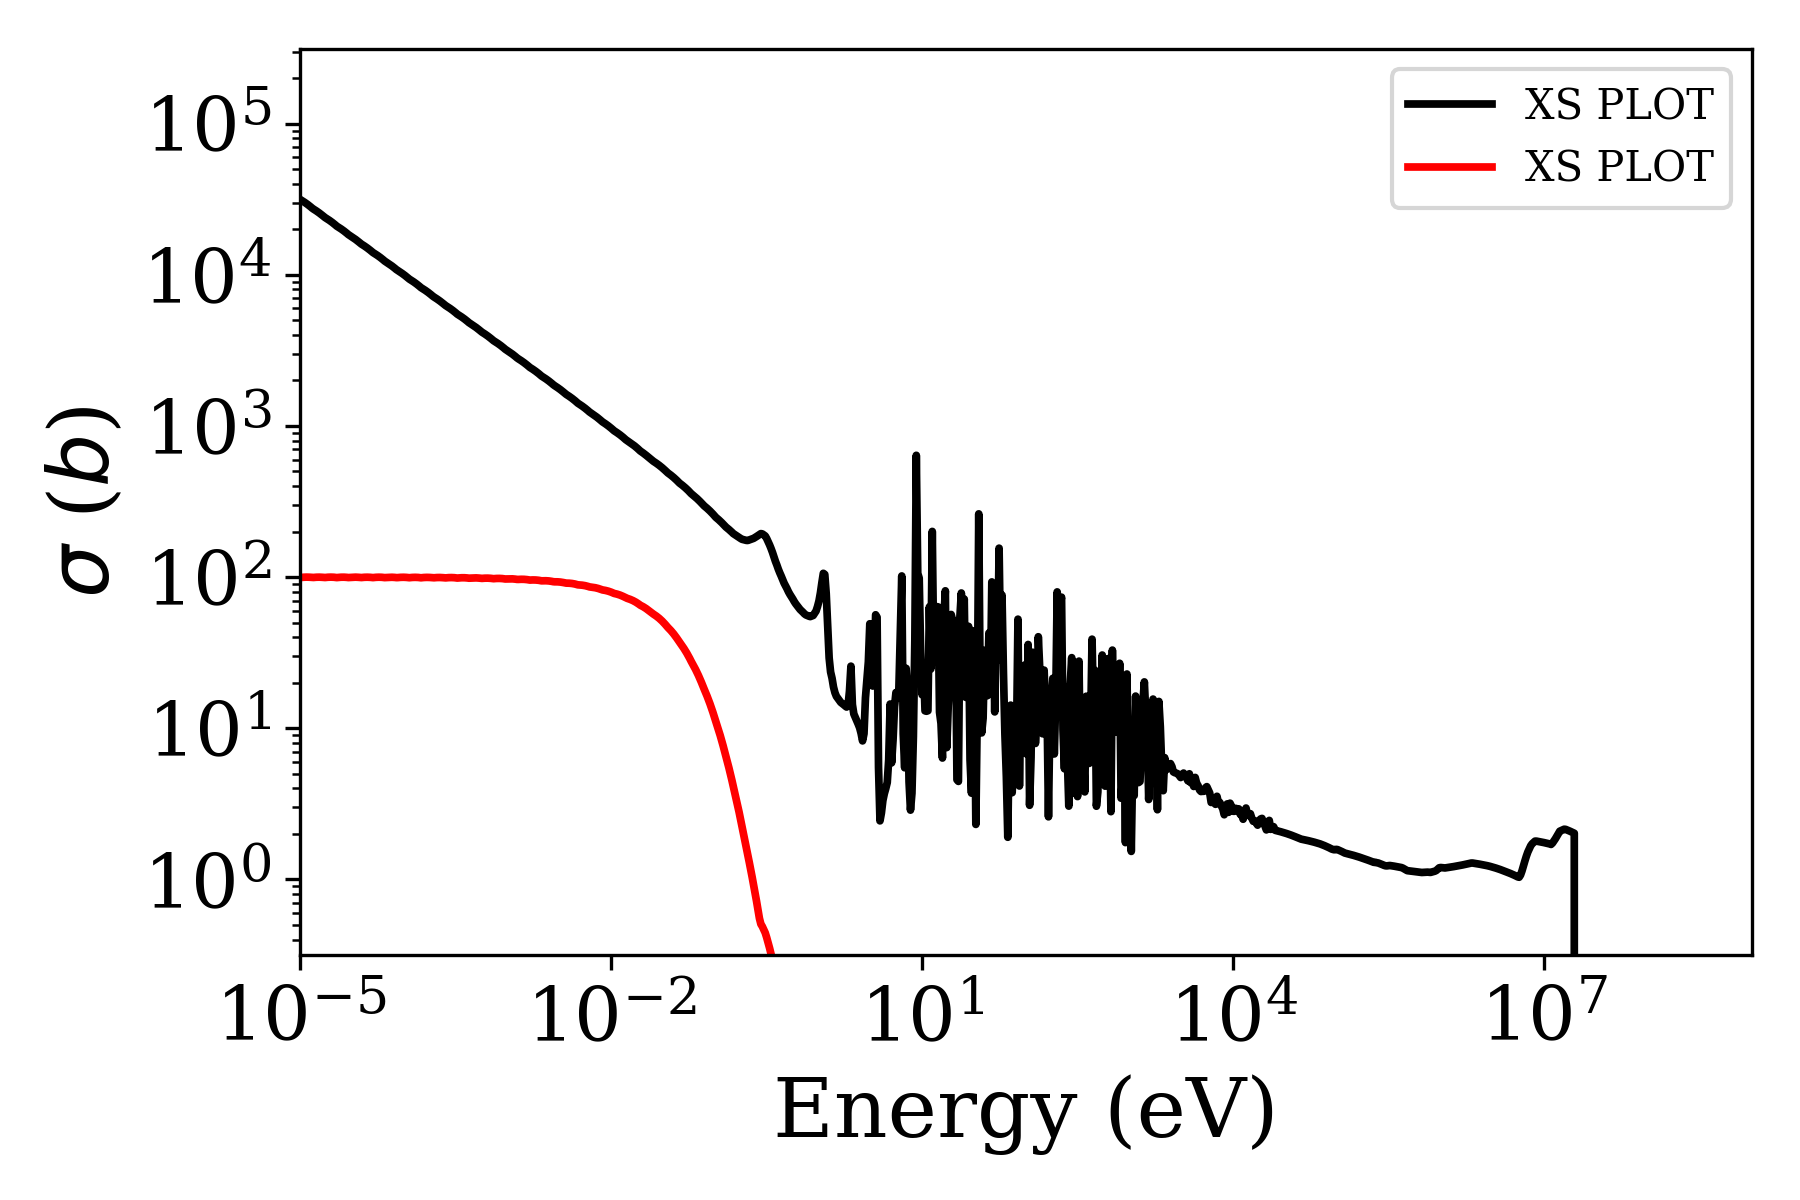
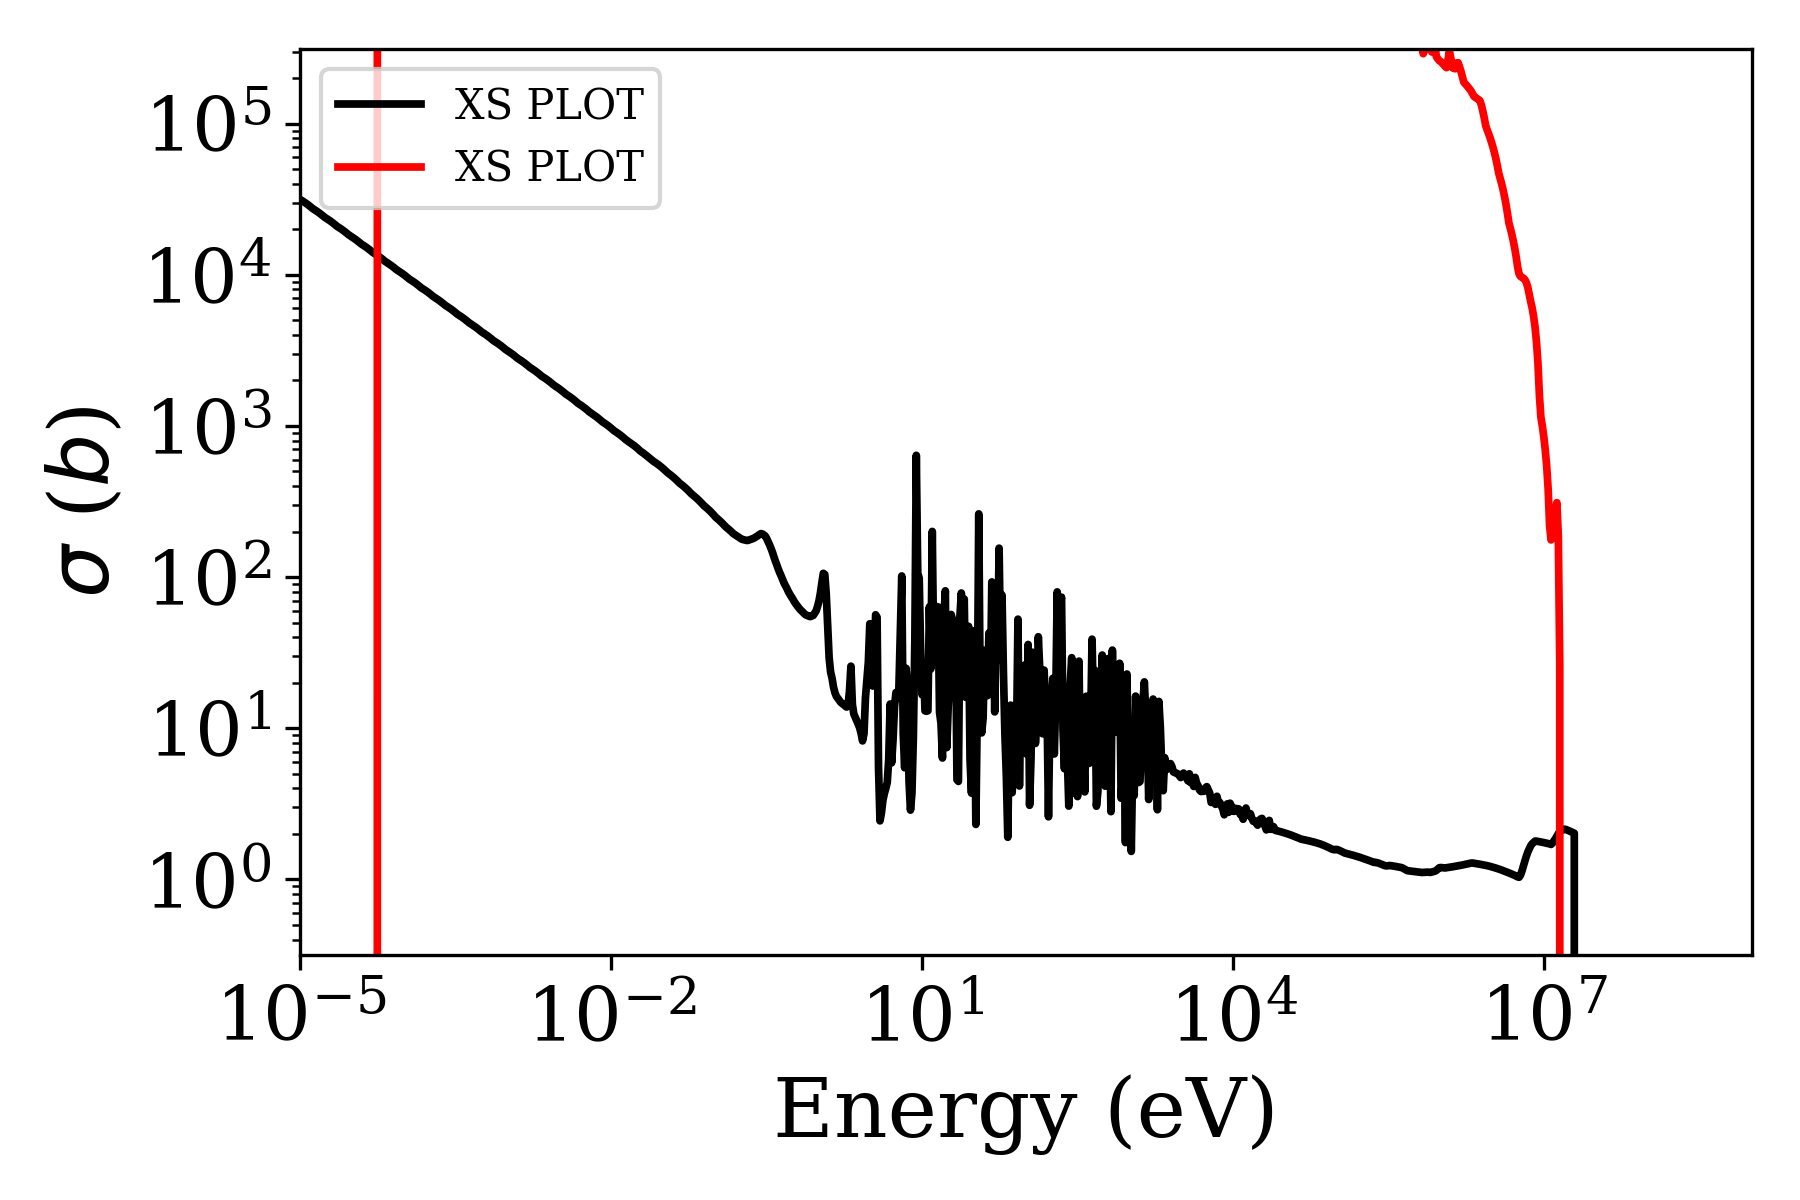
added theoretical uranium script

diff --git a/source/theoretical_uranium.py b/source/theoretical_uranium.py
@@ -1,0 +1,47 @@
+'''
+Theoretical Results for the Uranium irradiation.
+'''
+import numpy as np
+from wand import Wand
+import pickle
+
+dataname = 'theoretical_uranium.txt'
+
+
+def run(rerun_all):
+
+    try:
+        with open(dataname, 'rb') as F:
+            data = pickle.load(F)
+    except:
+        data = {}
+    ###############################################################################
+    #                                rhodium
+    ###############################################################################
+
+    if True or rerun_all:
+        wand = Wand()
+        wand.name = 'uranium'
+        wand.mat = 'U'
+        wand.cd = False
+        wand.masses = np.array([0.5, 0.5, 0.5, 0.5])  # mg
+        wand.t_i = 3600  # s
+        wand.t_w = 3600*24*2  # s
+        wand.counting_time = 3600
+        wand.P = 100  # kW(th)
+        wand.irradiate(False)
+        data.update(wand.package_data())
+
+    # dump data
+    with open(dataname, 'wb') as F:
+        pickle.dump(data, F)
+
+if __name__ == '__main__':
+    run(True)
+
+    with open(dataname, 'rb') as F:
+        data = pickle.load(F)
+
+    for key, val in data.items():
+        counts = val.peak_area
+        print('{:>6}  {:4.2e}  {:5.4f}'.format(key, counts, np.sqrt(counts) / counts))

diff --git a/source/hpge.py b/source/hpge.py
@@ -1,5 +1,6 @@
 import numpy as np
 from scipy.interpolate import interp1d
+from scipy.optimize import curve_fit
 import matplotlib.pyplot as plt
 
 
@@ -9,12 +10,22 @@ def hpge_efficiency1(e):
     return np.exp(eff)
 
 
-def hpge_efficiency(e):
-    erg = np.array([0, 60, 86.5, 105.3, 176.3, 427.90, 600.6, 834.8, 1173.2, 1332.5])
-    eff = np.array([0, 2.39e-2, 7.5e-2, 9.27e-2, 9.35e-2, 4.77e-2, 3.51e-2, 2.64e-2, 1.87e-2, 1.69e-2])
-    efficiency = interp1d(erg, eff, fill_value='extrapolate')
-    return efficiency(e)
+x = np.array([60, 86.5, 105.3, 176.3, 427.90, 600.6, 834.8, 1173.2, 1332.5])
+y = np.array([2.39e-2, 7.5e-2, 9.27e-2, 9.35e-2, 4.77e-2, 3.51e-2, 2.64e-2, 1.87e-2, 1.69e-2])
 
+
+def efficiency(erg, a, b, c, d, e):
+    erg = np.log(erg)
+    eff = a + b * erg + c * erg**2 + d * erg**3 + e * erg**4
+    return np.exp(eff)
+
+p0 = [-143.191, 91.147, -21.757, 2.279, -0.089]
+coeffs = curve_fit(efficiency, x, y, p0)
+print(coeffs[0])
+
+
+def hpge_efficiency(erg):
+    return efficiency(erg, -2.48945787e+02, 1.67284939e+02, -4.21090055e+01, 4.67244596e+00, -1.93763734e-01)
 
 if __name__ == '__main__':
     x = np.linspace(0, 2000, 2000)

diff --git a/source/cross_sections.py b/source/cross_sections.py
@@ -550,6 +550,9 @@ Au['reactions']['n,inelastic']['plotname'] = 'au_n,inelastic'
 U = {}
 U['M'] = 235.044  # g/mol
 U['rho'] = 19.1  # g/cm3
+U['principle'] = 'n,total_fission'
+U['principle_br'] = 0.1
+U['principle_erg'] = 662.3
 U['reactions'] = {}
 
 U['reactions']['n,total_fission'] = {}
@@ -558,9 +561,9 @@ U['reactions']['n,total_fission']['func'] = f
 U['reactions']['n,total_fission']['region'] = r
 U['reactions']['n,total_fission']['roi'] = 2.5315e-03, 3.0442e-01  # unknown
 U['reactions']['n,total_fission']['roi_cd'] = -1, -1  # unknown
-U['reactions']['n,total_fission']['halflife'] = -1  # unknown
+U['reactions']['n,total_fission']['halflife'] = 30 * 365.25 * 24 * 3600  # s (currently using cs halflife)
 U['reactions']['n,total_fission']['label'] = r'($n,fission$)'
-U['reactions']['n,total_fission']['erg'] = -1  # unknown
+U['reactions']['n,total_fission']['erg'] = 662.3  # (currently using cs erg)
 U['reactions']['n,total_fission']['plotname'] = 'u_n,total_fission'
 
 

diff --git a/source/theoretical_7_11_18.py b/source/theoretical_7_11_18.py
@@ -24,10 +24,10 @@ def run(rerun_all):
         wand.name = 'rhodium'
         wand.mat = 'Rh'
         wand.cd = False
-        stack_height = 5
-        wand.masses = np.array([0.5, 0.5, 0.5, 0.5]) * stack_height  # mg
+        stack_height = 6
+        wand.masses = np.array([1.1, 1.1, 1.1, 1.1]) * stack_height  # mg
         wand.t_i = 60  # s
-        wand.t_w = 3600*1  # s
+        wand.t_w = 3600*2  # s
         wand.counting_time = 600
         wand.P = 100  # kW(th)
         wand.irradiate(False)
